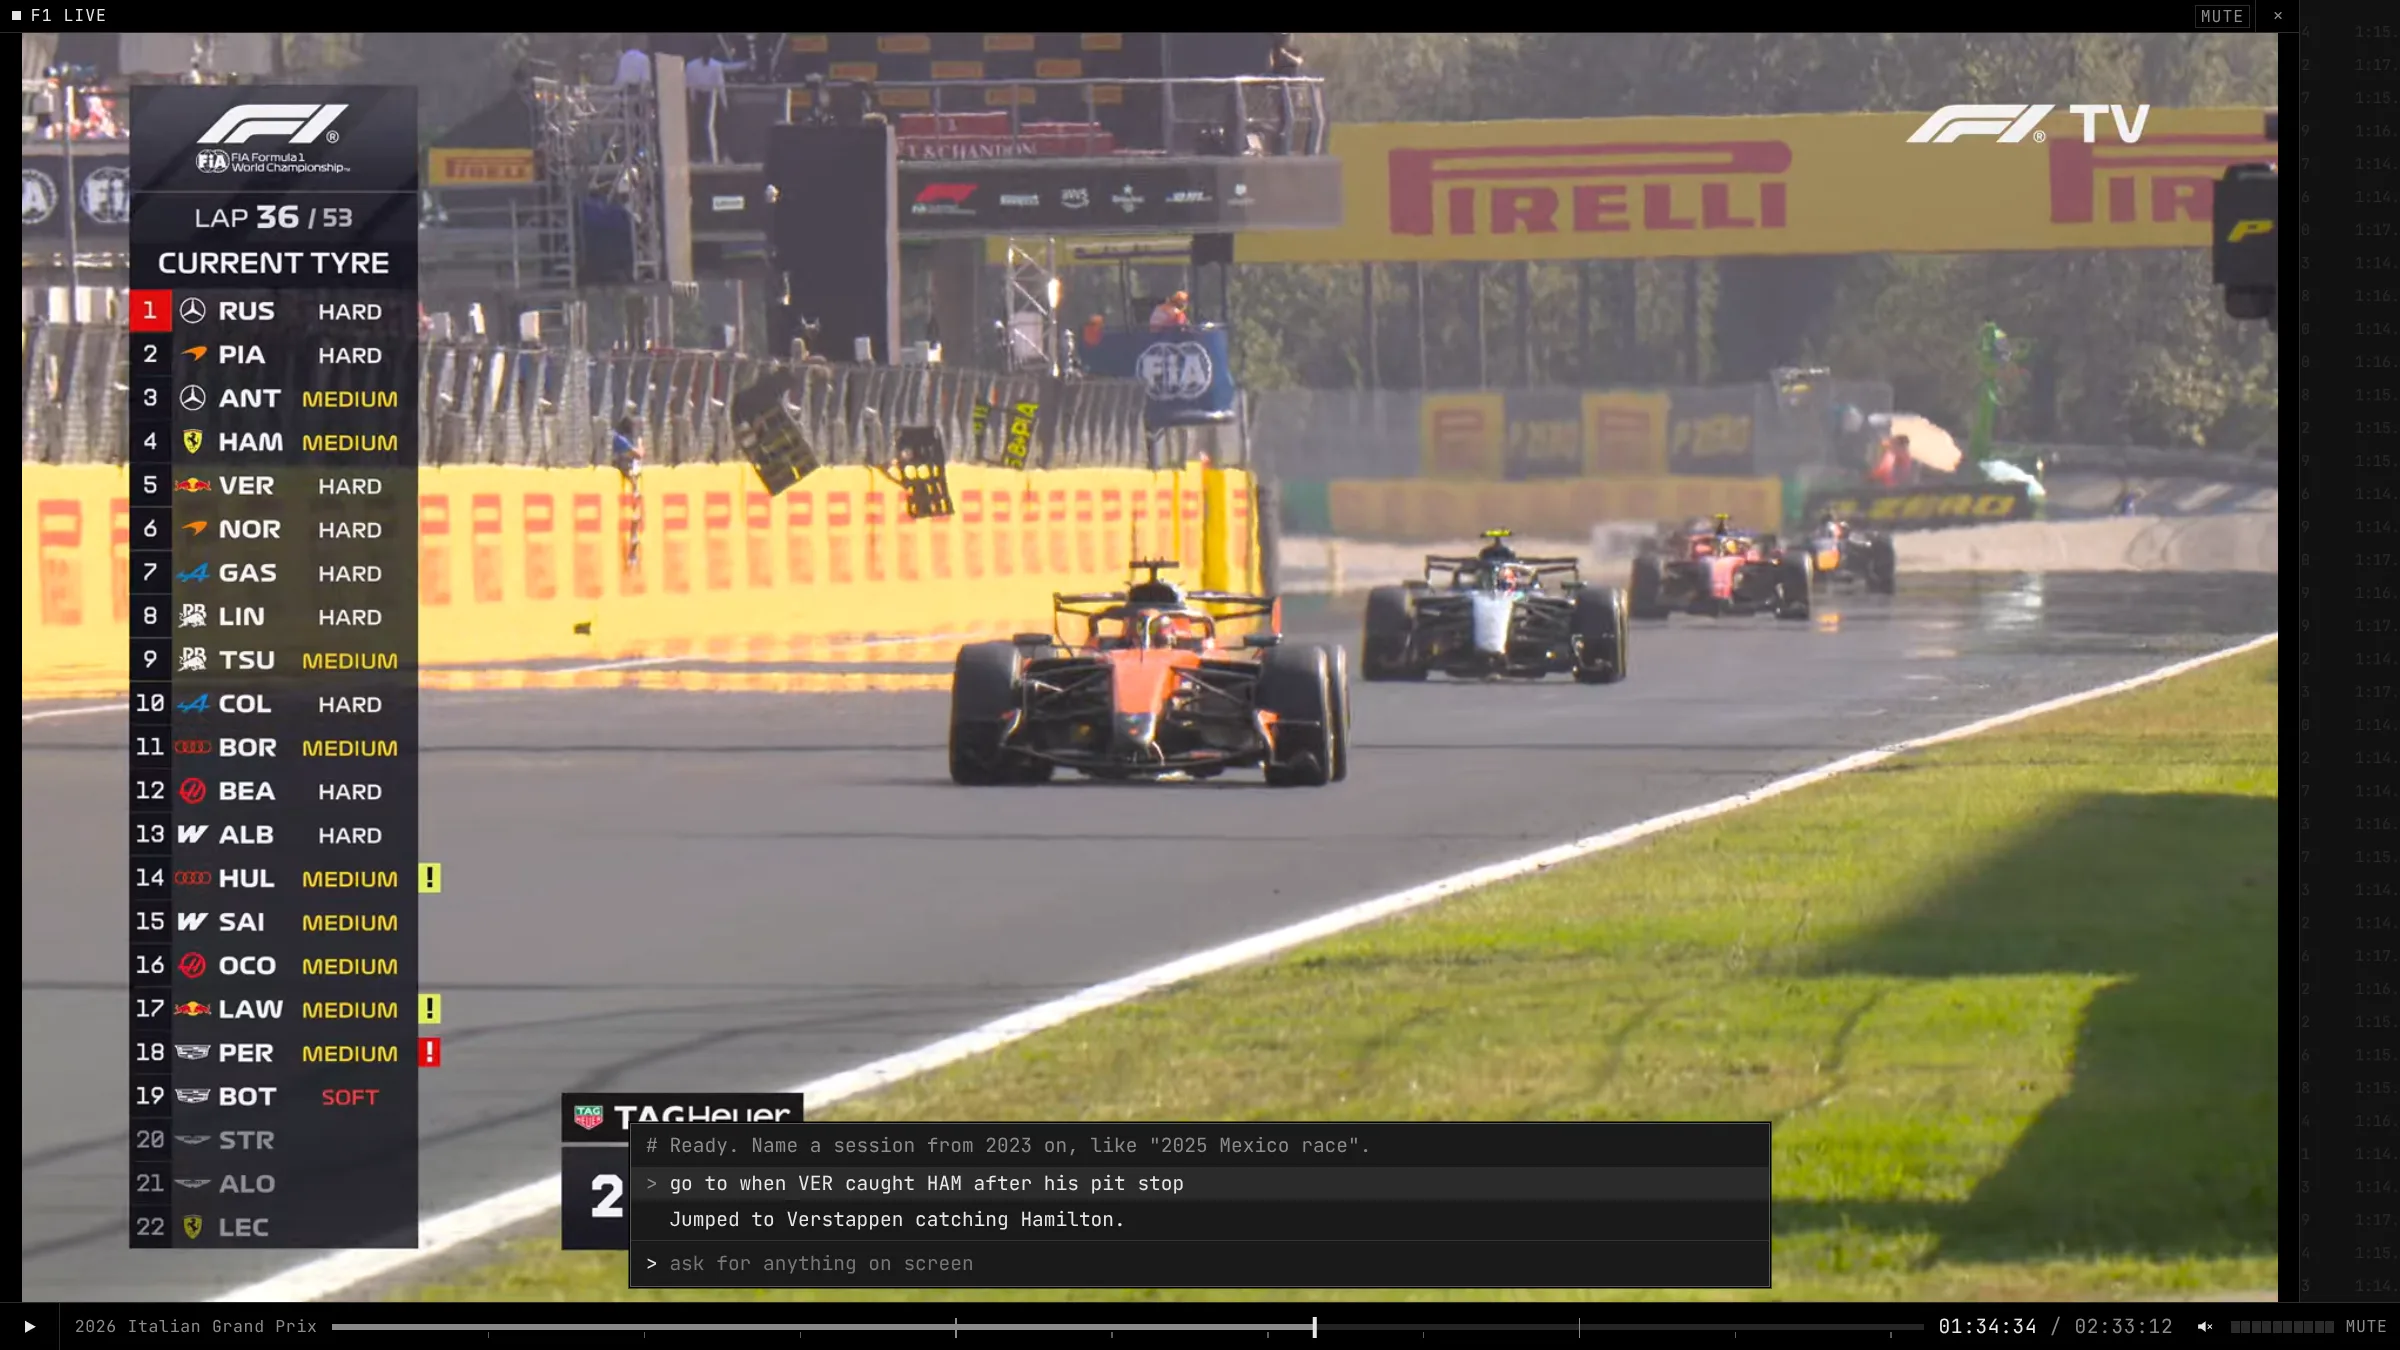
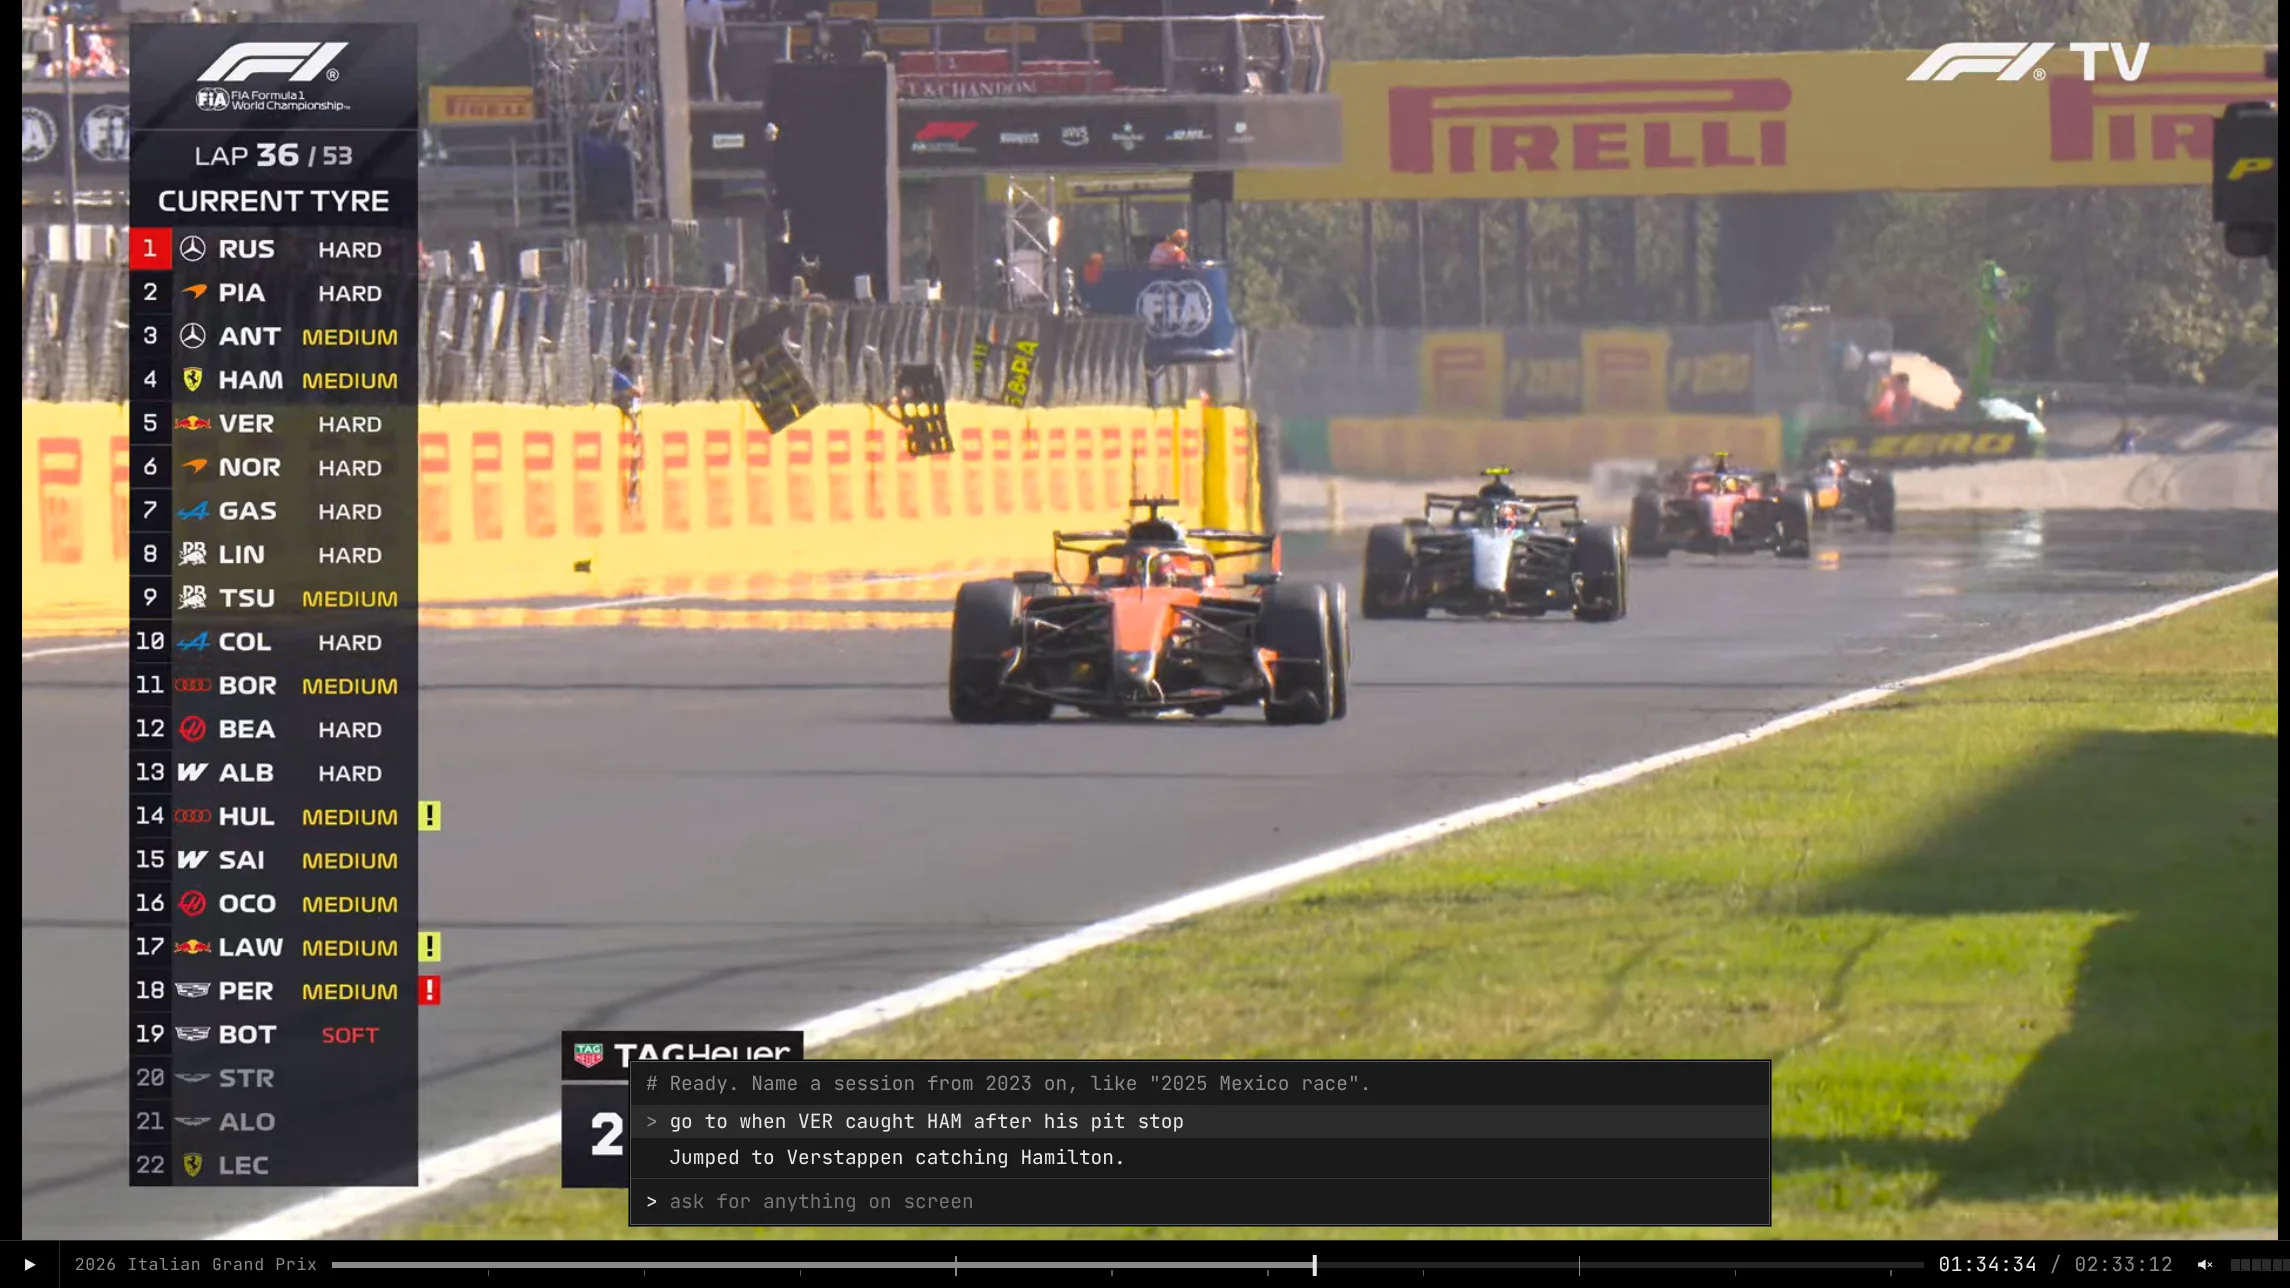
Play the jump as screens one after another, and narrow the gallery on phones
Back to the smaller frame beside the text, without the timeline or the steps. It plays like the hero: the race on
lap 22 with the palette closed (a new shot, 6d), then the screen dims while the prompt types, the spoiler check
comes up and Allow once is pressed, then the race on lap 36. The palette draws the spoiler check itself, and a
reel can set its own palette scale, so it fits the smaller frame and a phone.

Chart cards are 220 px wide below 640 px, so a phone shows more than one.

diff --git a/site/src/scripts/reel.ts b/site/src/scripts/reel.ts
@@ -55,7 +55,7 @@ export function palette(el: HTMLElement, wait: (ms: number) => Promise<void>) {
   return {
     /** Shows the palette empty, types the prompt a key at a time, and presses Enter. Resolves while the "…" pulses */
     async ask(prompt: string) {
-      el.classList.remove('sent', 'keys', 'busy');
+      el.classList.remove('sent', 'keys', 'busy', 'asking', 'pressing', 'pressed');
       mark.textContent = '>';
       typed.textContent = '';
       el.classList.add('show');
@@ -76,8 +76,17 @@ export function palette(el: HTMLElement, wait: (ms: number) => Promise<void>) {
       mark.textContent = '…';
       await wait(1500);
     },
+    /** The spoiler check comes up, and Allow once is pressed. For a palette drawn with `spoiler` */
+    async allow() {
+      el.classList.add('asking');
+      await wait(2400);
+      el.classList.add('pressing');
+      await wait(800);
+      el.classList.add('pressed');
+      await wait(300);
+    },
     hide() {
-      el.classList.remove('show');
+      el.classList.remove('show', 'asking', 'pressing', 'pressed');
     },
   };
 }

diff --git a/site/src/assets/shots/hero/SHOTS.md b/site/src/assets/shots/hero/SHOTS.md
@@ -10,7 +10,7 @@ design canvas's `Main.dc.html`.
 Page slots:
 
 - [x] **H1 · hero.** The page rotates four, each after its prompt is typed: shots 8b, 1, 5b and 2. They're the ones with the palette closed, since the page types the prompt itself.
-- [x] **M1 · spoiler check, then the jump.** Shots 6a and 6b, as whole frames: the section plays them as a reel, the prompt typed first and Allow once pressed between them. Shot 6c isn't used.
+- [x] **M1 · spoiler check, then the jump.** Shots 6d and 6b, cropped to 16:9 with the seek bar. The section plays them as screens: the race on lap 22 (6d), dimmed while the prompt types and the spoiler check is answered, then lap 36 (6b). The palette between them is drawn by the page, so shots 6a and 6c aren't used.
 - [x] **B1 · build draft, then Save.** Shots 3 and 4.
 - [x] **S1 · suggestion strip with live previews.** Shot 7.
 - [x] **X1 · point at anything.** [x1-mention.png](https://github.com/natheihei/oh-my-f1-viewer/blob/assets/landing-shots/x1-mention.png?raw=true). Asked as `how is @Ferrari doing against @Mercedes on the @gap` instead of `how is HAM vs @Ferrari`, since HAM drives for Ferrari in 2026, and only a tile tag lights a tile.
@@ -47,6 +47,7 @@ From the first hero list:
 | [shot6a-spoiler-check.png](https://github.com/natheihei/oh-my-f1-viewer/blob/assets/landing-shots/shot6a-spoiler-check.png?raw=true) | go to when VER caught HAM after his pit stop | 2026 Italian Grand Prix · 1:14:02, lap 22 of 53 | The spoiler check in the palette: "! spoiler The agent wants to look ahead of where you are." with Allow once, Allow for this session and Don't allow. The tower shows LEC Out, which happened before this point |
 | [shot6b-after-jump.png](https://github.com/natheihei/oh-my-f1-viewer/blob/assets/landing-shots/shot6b-after-jump.png?raw=true) | (Allow once on 6a) | 2026 Italian Grand Prix · 1:34:34, lap 36 of 53 | The frame after the jump, with "Jumped to Verstappen catching Hamilton." The broadcast tower shows HAM P4 on mediums, VER P5 on hards. The two cars are small in the background of the world feed |
 | [shot6c-catch-tiles.png](https://github.com/natheihei/oh-my-f1-viewer/blob/assets/landing-shots/shot6c-catch-tiles.png?raw=true) | show both onboards and the chase · also the chase tile, VER chasing HAM | Same frame as 6b, layout arranged by hand | Palette closed. The world feed, and down the right the VER onboard, the gap chart (VER 10.6 s back after his stop, closing 1.27 s a lap to 1.44 s) and the HAM onboard. The chase tile was taken off |
+| [shot6d-lap22-closed.png](https://github.com/natheihei/oh-my-f1-viewer/blob/assets/landing-shots/shot6d-lap22-closed.png?raw=true) | (none, palette closed) | 2026 Italian Grand Prix · 1:14:02, lap 22 of 53, the moment of shot 6a | For M1's first screen: the race before you ask. Both Mercedes side by side into Turn 1, with Verstappen behind. Taken later than 6a, so the world feed is on a different camera |
 | [shot7-strip-ver.png](https://github.com/natheihei/oh-my-f1-viewer/blob/assets/landing-shots/shot7-strip-ver.png?raw=true) | How's VER doing right now, tyres, speed, pitting strategy, etc | 2026 Italian Grand Prix · 1:34:34, lap 36 of 53 | For S1. The suggestion strip, open with live previews of six tiles: VER onboard, and timing tower, tyre strategy and tyre deg for the whole field with VER highlighted, then pit window and telemetry for VER. The palette shows the prompt and "Suggested Verstappen's onboard, timing, tyres, pit window and telemetry." Taken after the view prompt was changed to draw the whole field and highlight the driver asked about. Asked as "tyres", not the "types" of the original note |
 | [shot8-ham-ver.png](https://github.com/natheihei/oh-my-f1-viewer/blob/assets/landing-shots/shot8-ham-ver.png?raw=true) | The battle between HAM and VER, with their telemetry | 2026 Canadian Grand Prix · 0:25:25, lap 8 of 68 | The world feed, HAM and VER onboards, the gap chart (VER 0.50 s behind HAM for P3, closing 0.12 s a lap, both in overtake range) and telemetry for each. The palette shows the prompt and "Suggested both onboards, their gap chart, and telemetry." Everything it suggested was added |
 | [shot8b-ham-ver-closed.png](https://github.com/natheihei/oh-my-f1-viewer/blob/assets/landing-shots/shot8b-ham-ver-closed.png?raw=true) | (same as shot 8) | Same frame as shot 8 | Shot 8 with the palette closed, so both telemetry tiles show whole: HAM 219 km/h in 5th, VER 202 km/h with overtake on |
